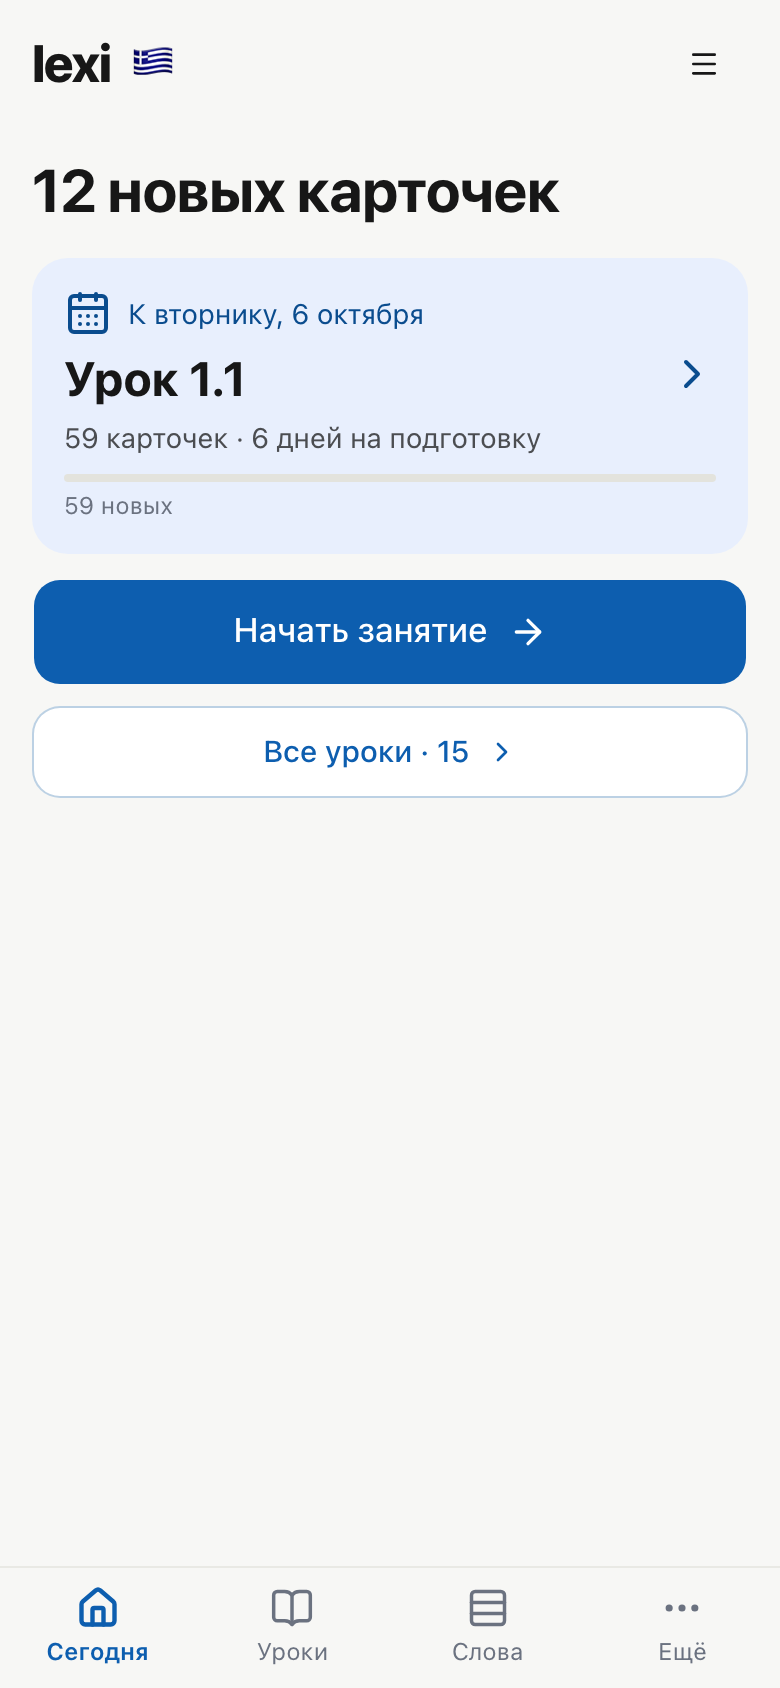
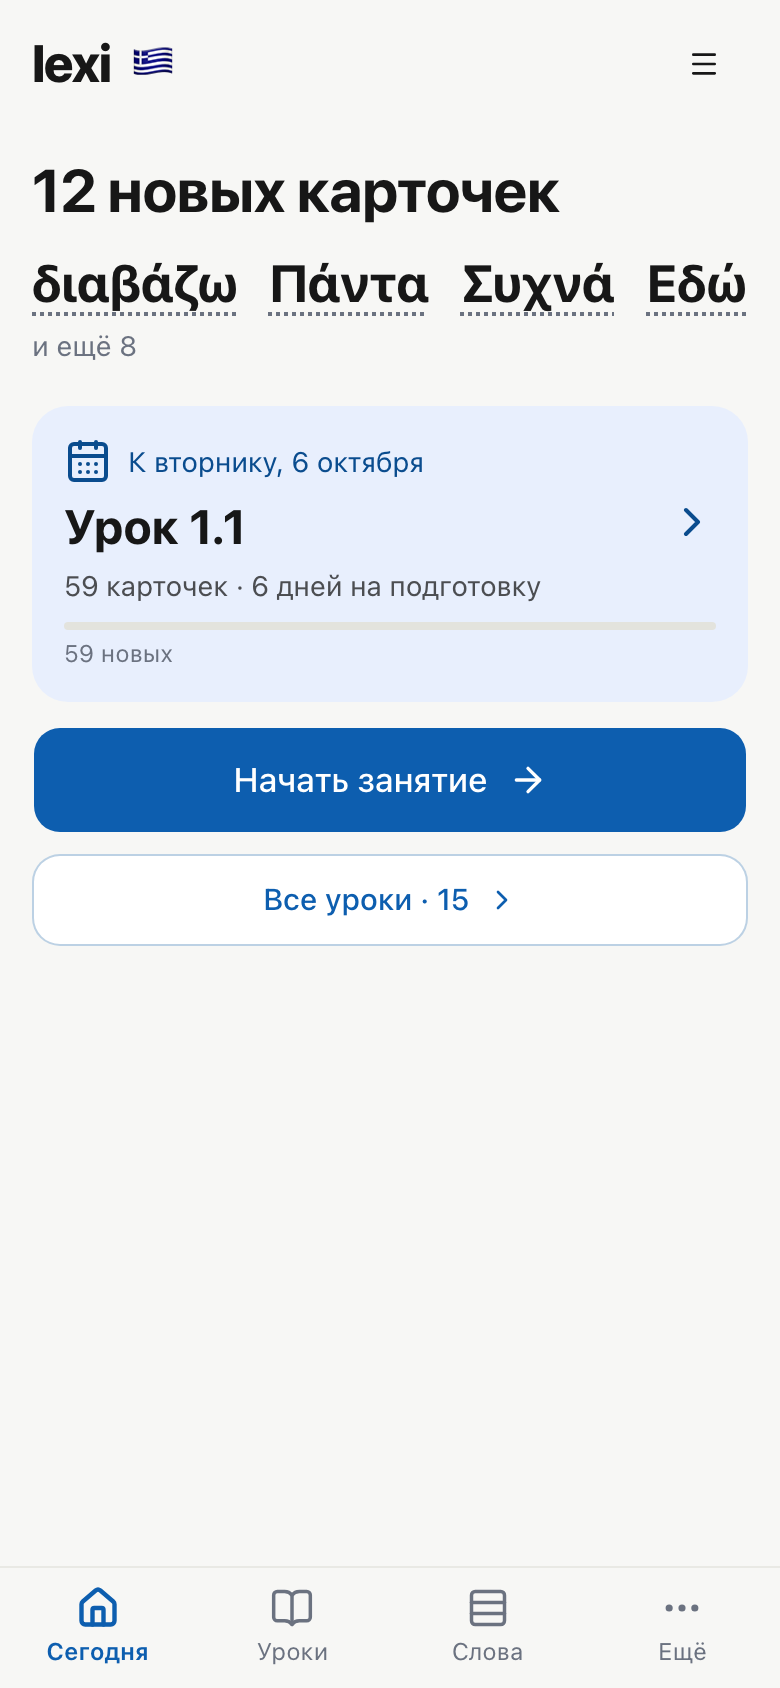
Первые новые слова дня на экране «Сегодня»
Под заголовком с объёмом дня — до четырёх первых новых слов по-гречески,
крупно и со своим ударением, и «и ещё N». Каждое слово открывает свою
карточку; подчёркивание точками — тот же приём, что у размеченных слов
в примерах. Экран, который открывают каждый день, теперь показывает сам
язык, а не только числа и даты.

diff --git a/src/features/today/TodayWords.tsx b/src/features/today/TodayWords.tsx
@@ -1,0 +1,34 @@
+import { Link } from "react-router-dom";
+import type { LearningRef } from "../../domain/types";
+import { useWordsById } from "../../shared/store";
+
+/** Сколько новых слов показать на «Сегодня»: строка должна читаться целиком, а не списком. */
+const SHOWN = 4;
+
+/**
+ * Первые новые слова дня — греческим, крупно, со своим ударением. Заголовок называет число,
+ * строка показывает, что за ним стоит; каждое слово открывает свою карточку.
+ */
+export function TodayWords({ refs }: { refs: LearningRef[] }) {
+  const ids = refs.filter((ref) => ref.kind === "word").map((ref) => ref.id);
+  const words = useWordsById(ids.slice(0, SHOWN));
+  if (!words?.length) return null;
+  const rest = refs.length - words.length;
+  return (
+    <div className="-mt-1 mb-5" data-testid="today-words">
+      <ul lang="el" aria-label="Первые новые слова" className="flex flex-wrap items-baseline gap-x-4 gap-y-1">
+        {words.map((word) => (
+          <li key={word!.id}>
+            <Link
+              to={`/words/${word!.id}`}
+              className="text-[26px] leading-tight font-bold tracking-[-0.01em] text-foreground underline decoration-muted-foreground decoration-dotted decoration-2 underline-offset-[6px] [overflow-wrap:anywhere] hover:decoration-primary"
+            >
+              {word!.greek}
+            </Link>
+          </li>
+        ))}
+      </ul>
+      {rest > 0 && <p className="mt-1.5 text-sm text-muted-foreground">и ещё {rest}</p>}
+    </div>
+  );
+}

diff --git a/tests/e2e/today.spec.ts b/tests/e2e/today.spec.ts
@@ -74,3 +74,17 @@ test("фокус с клавиатуры не прячется под нижне
   }
   expect(checked).toBeGreaterThan(10);
 });
+
+test("первые новые слова дня видны по-гречески и открывают свою карточку", async ({ page }) => {
+  await page.goto("/");
+  await ready(page);
+  await installLessons(page, ["lesson-1-1"]);
+  const words = page.getByTestId("today-words").getByRole("link");
+  await expect(words.first()).toBeVisible();
+  expect(await words.count()).toBeLessThanOrEqual(4);
+  const first = (await words.first().innerText()).trim();
+  expect(first).toMatch(/[Ͱ-Ͽἀ-῿]/);
+  await words.first().click();
+  await page.waitForURL(/\/words\/[^/]+$/);
+  await expect(page.getByText(first, { exact: true }).first()).toBeVisible();
+});

diff --git a/src/features/today/TodayScreen.tsx b/src/features/today/TodayScreen.tsx
@@ -16,6 +16,7 @@ import { nextLessonIds } from "../lessons/courses";
 import { dexieSource } from "../../storage/queries";
 import { DayNotes } from "./DayNotes";
 import { FirstRun } from "./FirstRun";
+import { TodayWords } from "./TodayWords";
 import ui from "../../shared/ui.module.css";
 
 /** «Урок 1.4» → «уроку 1.4», свой набор — в кавычках. */
@@ -106,6 +107,7 @@ export function TodayScreen() {
   return (
     <Screen>
       <h1 data-testid="today-title">{headline()}</h1>
+      {plan && !unfinished && <TodayWords refs={plan.newRefs} />}
       {plan && (split || extra) && (
         <p className={`${ui.note} -mt-3 mb-4`}>
           {split && <span data-testid="new-by-course">{split}</span>}

diff --git a/src/shared/store.ts b/src/shared/store.ts
@@ -82,6 +82,9 @@ export const useShippedWord = (id: string | undefined) =>
     [id],
   );
 export const useCourses = () => useLiveQuery(() => db.courses.toArray(), []);
+/** Слова по идентификаторам в том же порядке; удалённые и отсутствующие пропускаются. */
+export const useWordsById = (ids: string[]) =>
+  useLiveQuery(async () => (await db.words.bulkGet(ids)).filter((word) => !!word && !word.deletedAt), [ids.join(" ")]);
 export const useCoursePhase = (courseId: string | undefined) =>
   useSyncExternalStore(subscribeInstall, () => coursePhase(courseId ?? ""));
 export const useReadiness = (lessonId: string | undefined) =>
